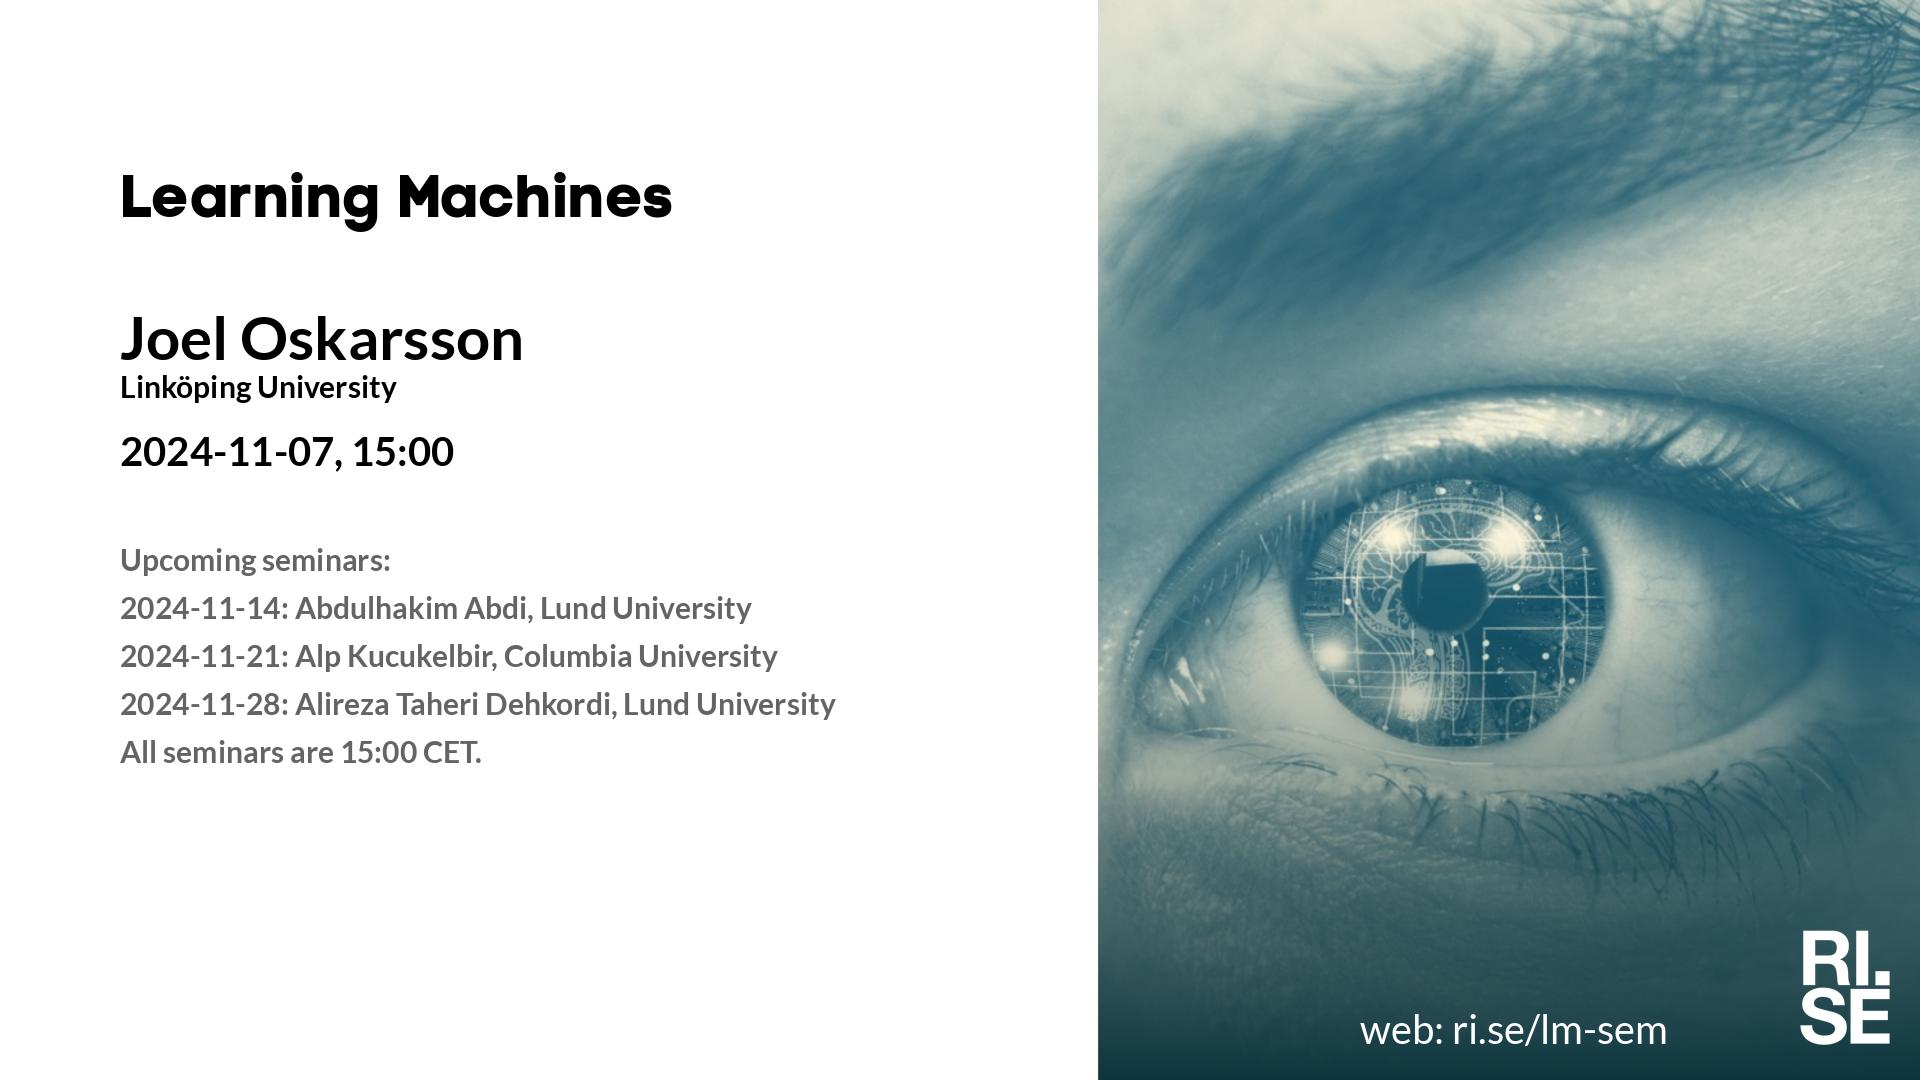
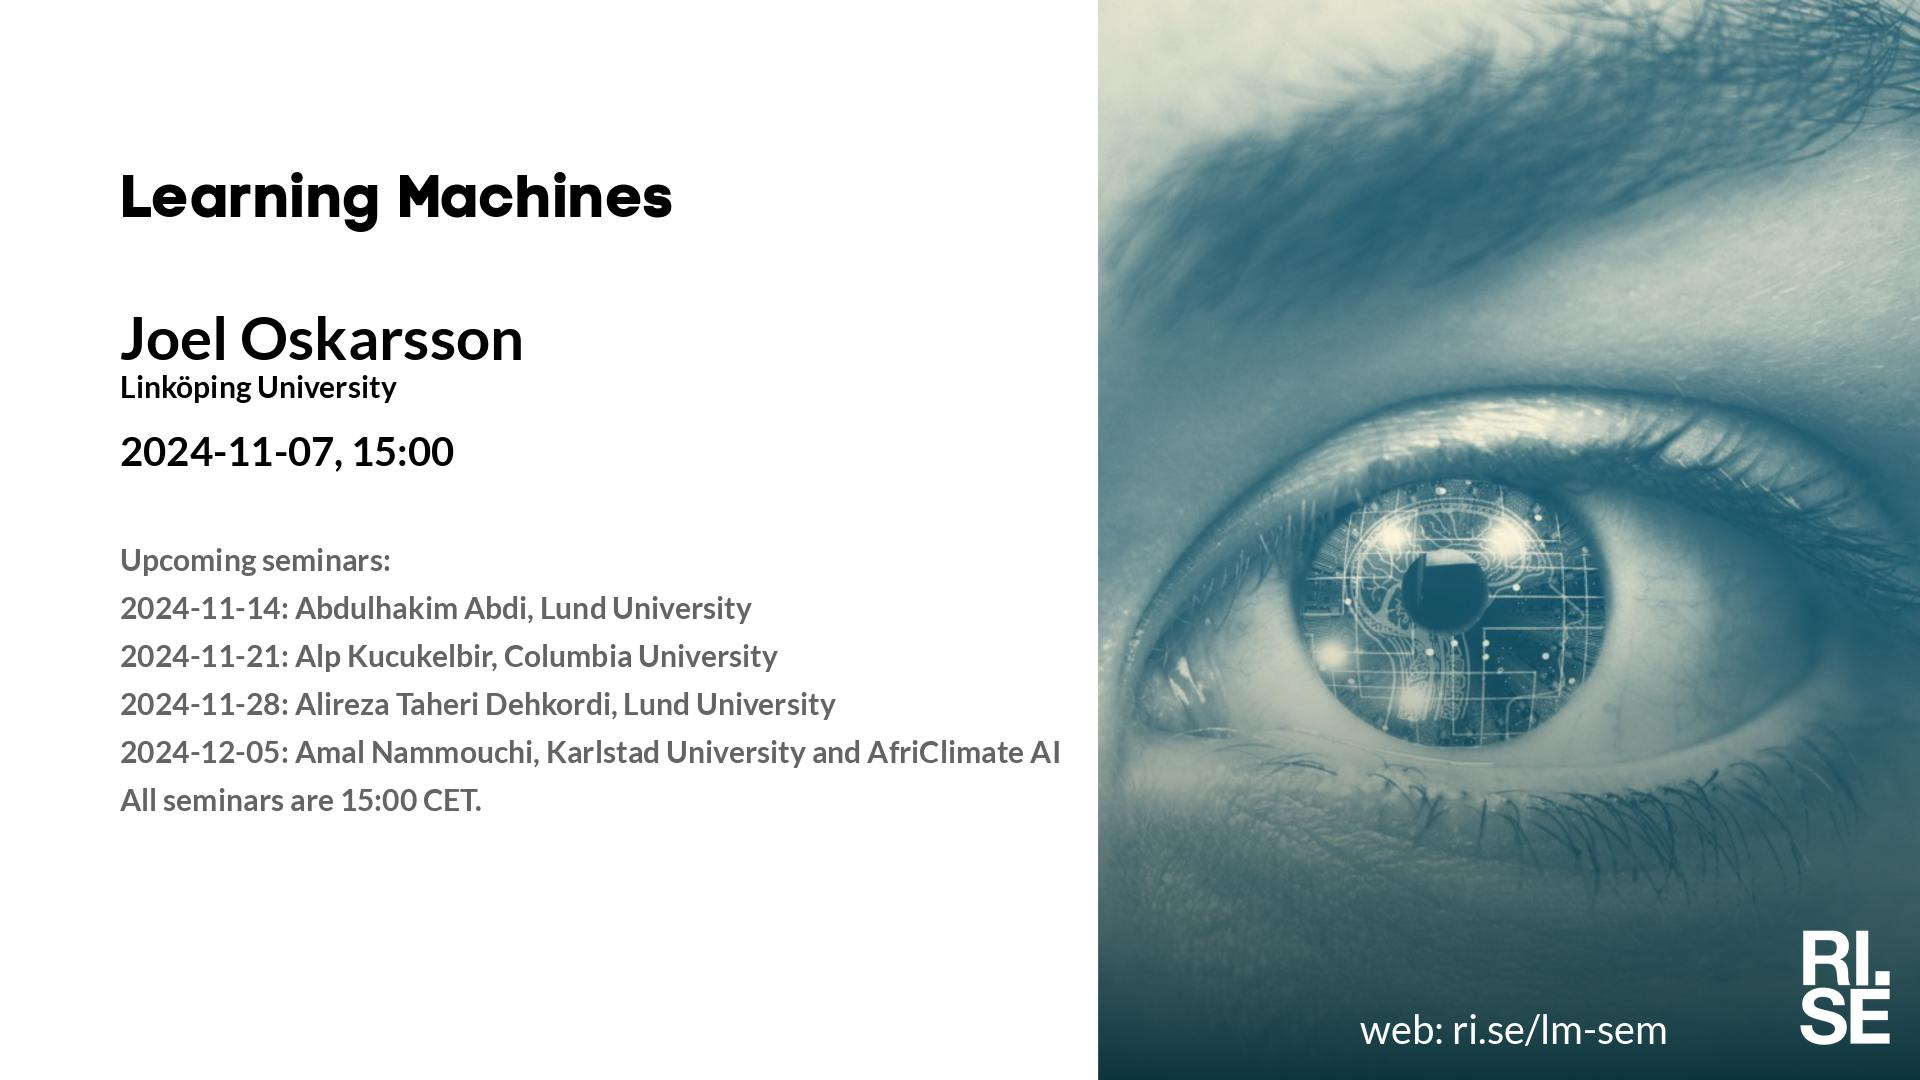
Updated plan on web site.

Changed region(s): [[0.0625, 0.6722, 0.5625, 0.7639]]

diff --git a/lm/index.md b/lm/index.md
@@ -5,7 +5,7 @@ metatags: "<meta name=\"robots\" content=\"noindex,nofollow\" />"
 <style type="text/css" scoped>
 td, th {border: 1px solid #ccc; padding: 0.6em;}
 table {border-collapse: collapse;}
-</style># Learning Machines Plan 2024-09-11
+</style># Learning Machines Plan 2024-09-24
 
 | date | speaker                                   | photo | shareable | meeting backdrop | youtube thumbnail | <a title="Speaker, Title, Abstract, Bio, Photo. Strikethrough means we don't have it yet.">comment</a>        |
 | ---- | ----------------------------------------- | ----- | ----- | ----- | ----- | -------------- |

diff --git a/lm/2024-11-07.md b/lm/2024-11-07.md
@@ -23,6 +23,7 @@ Welcome to this week's Learning Machines seminar.
 * 2024-11-14: Abdulhakim Abdi, Lund University
 * 2024-11-21: Alp Kucukelbir, Columbia University
 * 2024-11-28: Alireza Taheri Dehkordi, Lund University
+* 2024-12-05: Amal Nammouchi, Karlstad University and AfriClimate AI
 * All seminars are 15:00 CET.
 
 More information and coming seminars: [https://ri.se/lm-sem](https://ri.se/lm-sem)

diff --git a/lm/2024-11-28.md b/lm/2024-11-28.md
@@ -16,7 +16,7 @@ Welcome to this week's Learning Machines seminar.
 
 **Date:** 2024-11-28 15:00
 
-**Zoom link:** [https://rise.zoom.us/j/208117140](https://rise.zoom.us/j/208117140)
+**Zoom link:** [https://rise.zoom.us/j/69691371971?pwd=tsiPdijGBf0nVVwlOSuDBJG0jRaB3r.1](https://rise.zoom.us/j/69691371971?pwd=tsiPdijGBf0nVVwlOSuDBJG0jRaB3r.1)
 
 **Upcoming seminars:**
 
